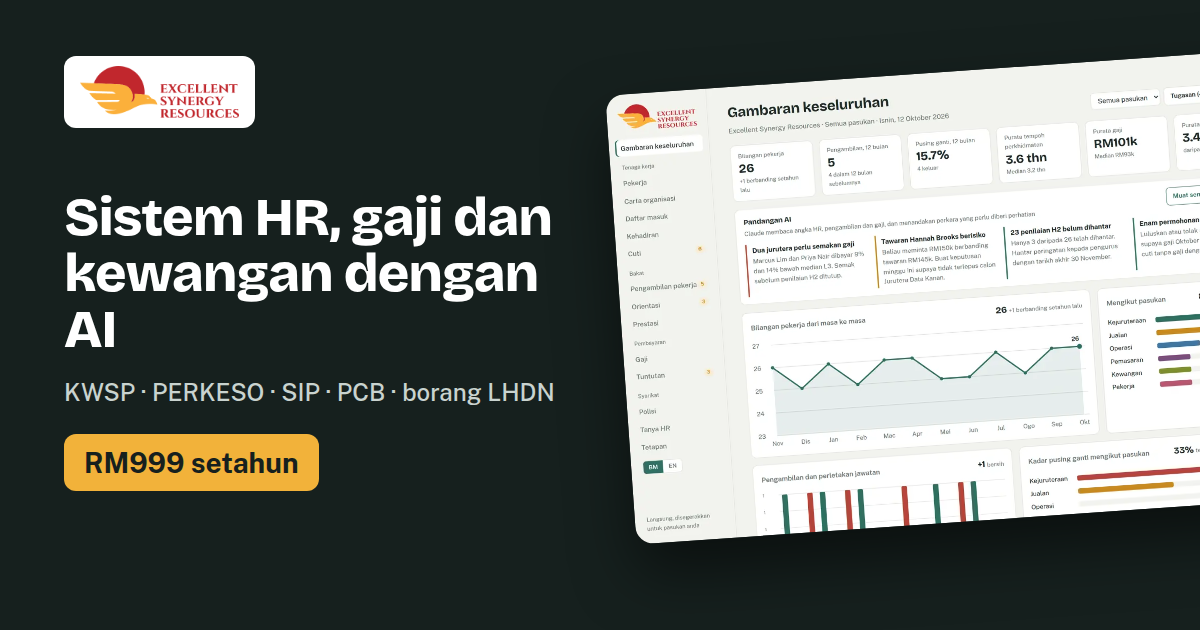
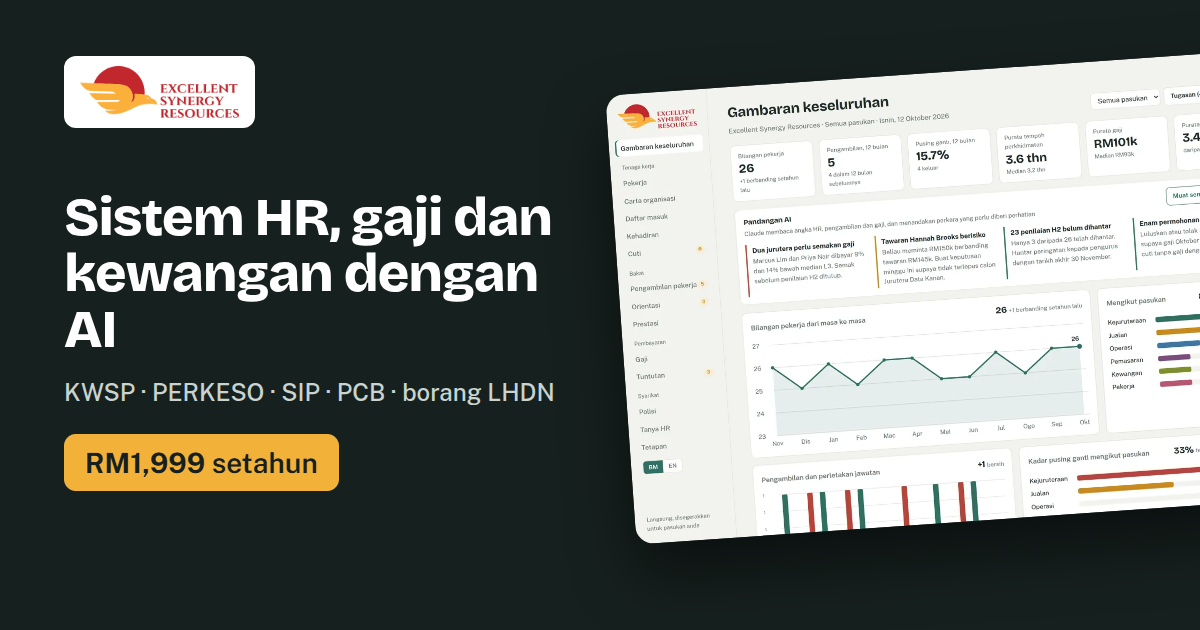
Change price to RM1,999 a year
Update hero note, pricing card, FAQ, meta/OG/Twitter descriptions and SoftwareApplication offer on both home pages, redraw the price label on the og-ms/og-en share images, and bump lastmod for / and /en/.

Changed region(s): [[0.0617, 0.6937, 0.3083, 0.7841]]

diff --git a/index.html b/index.html
@@ -4,21 +4,21 @@
 <meta charset="utf-8">
 <meta name="viewport" content="width=device-width, initial-scale=1, viewport-fit=cover">
 <title>Sistem HR dan Gaji Malaysia dengan AI | ESR</title>
-<meta name="description" content="Urus pekerja, cuti, daftar masuk berlokasi, gaji dengan KWSP, PERKESO, SIP dan PCB, invois dan borang LHDN dalam satu sistem dengan AI. RM999 setahun.">
+<meta name="description" content="Urus pekerja, cuti, daftar masuk berlokasi, gaji dengan KWSP, PERKESO, SIP dan PCB, invois dan borang LHDN dalam satu sistem dengan AI. RM1,999 setahun.">
 <meta name="robots" content="index, follow, max-image-preview:large">
 <link rel="canonical" href="https://hrmanagement.esrmy.com/">
 <link rel="alternate" hreflang="ms-MY" href="https://hrmanagement.esrmy.com/"><link rel="alternate" hreflang="en" href="https://hrmanagement.esrmy.com/en/"><link rel="alternate" hreflang="x-default" href="https://hrmanagement.esrmy.com/">
 <meta property="og:type" content="website"><meta property="og:site_name" content="Excellent Synergy Resources"><meta property="og:url" content="https://hrmanagement.esrmy.com/">
-<meta property="og:title" content="Sistem HR dan Gaji Malaysia dengan AI | ESR"><meta property="og:description" content="Urus pekerja, cuti, daftar masuk berlokasi, gaji dengan KWSP, PERKESO, SIP dan PCB, invois dan borang LHDN dalam satu sistem dengan AI. RM999 setahun.">
+<meta property="og:title" content="Sistem HR dan Gaji Malaysia dengan AI | ESR"><meta property="og:description" content="Urus pekerja, cuti, daftar masuk berlokasi, gaji dengan KWSP, PERKESO, SIP dan PCB, invois dan borang LHDN dalam satu sistem dengan AI. RM1,999 setahun.">
 <meta property="og:image" content="https://hrmanagement.esrmy.com/assets/img/og-ms.png"><meta property="og:image:width" content="1200"><meta property="og:image:height" content="630"><meta property="og:image:alt" content="Sistem HR, gaji dan kewangan Excellent Synergy Resources">
 <meta property="og:locale" content="ms_MY"><meta property="og:locale:alternate" content="en_MY">
-<meta name="twitter:card" content="summary_large_image"><meta name="twitter:title" content="Sistem HR dan Gaji Malaysia dengan AI | ESR"><meta name="twitter:description" content="Urus pekerja, cuti, daftar masuk berlokasi, gaji dengan KWSP, PERKESO, SIP dan PCB, invois dan borang LHDN dalam satu sistem dengan AI. RM999 setahun."><meta name="twitter:image" content="https://hrmanagement.esrmy.com/assets/img/og-ms.png">
+<meta name="twitter:card" content="summary_large_image"><meta name="twitter:title" content="Sistem HR dan Gaji Malaysia dengan AI | ESR"><meta name="twitter:description" content="Urus pekerja, cuti, daftar masuk berlokasi, gaji dengan KWSP, PERKESO, SIP dan PCB, invois dan borang LHDN dalam satu sistem dengan AI. RM1,999 setahun."><meta name="twitter:image" content="https://hrmanagement.esrmy.com/assets/img/og-ms.png">
 <meta name="theme-color" content="#2F6F62">
 <link rel="icon" type="image/png" sizes="32x32" href="/assets/img/icon-32.png"><link rel="icon" type="image/png" sizes="192x192" href="/assets/img/icon-192.png"><link rel="apple-touch-icon" href="/assets/img/apple-touch-icon.png">
 <link rel="preconnect" href="https://fonts.googleapis.com"><link rel="preconnect" href="https://fonts.gstatic.com" crossorigin>
 <link href="https://fonts.googleapis.com/css2?family=Bricolage+Grotesque:opsz,wght@12..96,600;12..96,800&family=Public+Sans:wght@400;500;600;700&display=swap" rel="stylesheet">
 <link rel="stylesheet" href="/assets/css/style.css">
-<script type="application/ld+json">{"@context": "https://schema.org", "@graph": [{"@type": "Organization", "@id": "https://hrmanagement.esrmy.com/#org", "name": "Excellent Synergy Resources", "url": "https://hrmanagement.esrmy.com/", "logo": "https://hrmanagement.esrmy.com/assets/img/logo.png", "email": "work@esrmy.com", "contactPoint": {"@type": "ContactPoint", "telephone": "+60-11-1632-0694", "contactType": "sales", "areaServed": ["MY", "SG"], "availableLanguage": ["ms", "en"]}}, {"@type": "WebSite", "@id": "https://hrmanagement.esrmy.com/#site", "url": "https://hrmanagement.esrmy.com/", "name": "Excellent Synergy Resources", "inLanguage": ["ms-MY", "en"], "publisher": {"@id": "https://hrmanagement.esrmy.com/#org"}}, {"@type": "SoftwareApplication", "name": "Excellent Synergy Resources HR, Payroll & Finance", "applicationCategory": "BusinessApplication", "operatingSystem": "Web", "inLanguage": ["ms", "en"], "description": "Urus pekerja, cuti, daftar masuk berlokasi, gaji dengan KWSP, PERKESO, SIP dan PCB, invois dan borang LHDN dalam satu sistem dengan AI. RM999 setahun.", "offers": {"@type": "Offer", "price": "999", "priceCurrency": "MYR", "priceSpecification": {"@type": "UnitPriceSpecification", "price": "999", "priceCurrency": "MYR", "unitText": "YEAR"}}, "publisher": {"@id": "https://hrmanagement.esrmy.com/#org"}}, {"@type": "FAQPage", "inLanguage": "ms", "mainEntity": [{"@type": "Question", "name": "Apa yang termasuk dalam RM999 setahun?", "acceptedAnswer": {"@type": "Answer", "text": "Rekod HR, kehadiran dengan daftar masuk berlokasi, cuti, pengambilan pekerja, orientasi, penilaian prestasi, gaji untuk Malaysia dan Singapura, kewangan dengan invois, penyesuaian bank dan laporan, borang LHDN, serta ciri-ciri AI."}}, {"@type": "Question", "name": "Adakah sistem ini mengira PCB, KWSP, PERKESO dan SIP?", "acceptedAnswer": {"@type": "Answer", "text": "Ya. Gaji bulanan mengira setiap potongan, menggunakan kaedah pengiraan berkomputer LHDN untuk PCB, dan menyediakan data CP39, borang EA dan senarai pekerja Borang E."}}, {"@type": "Question", "name": "Bolehkah kakitangan daftar masuk melalui telefon?", "acceptedAnswer": {"@type": "Answer", "text": "Boleh. Kakitangan menekan Daftar masuk di telefon, sistem menyemak mereka berada di pejabat, dan lewat atau tidak hadir ditanda secara automatik."}}, {"@type": "Question", "name": "Adakah sistem ini dalam Bahasa Malaysia?", "acceptedAnswer": {"@type": "Answer", "text": "Ya. Setiap skrin boleh ditukar antara Bahasa Malaysia dan Bahasa Inggeris."}}, {"@type": "Question", "name": "Bagaimana saya boleh melihat sistem ini?", "acceptedAnswer": {"@type": "Answer", "text": "Tempah demo melalui WhatsApp di 011-1632 0694 atau e-mel work@esrmy.com dan kami akan menunjukkannya kepada anda."}}]}]}</script>
+<script type="application/ld+json">{"@context": "https://schema.org", "@graph": [{"@type": "Organization", "@id": "https://hrmanagement.esrmy.com/#org", "name": "Excellent Synergy Resources", "url": "https://hrmanagement.esrmy.com/", "logo": "https://hrmanagement.esrmy.com/assets/img/logo.png", "email": "work@esrmy.com", "contactPoint": {"@type": "ContactPoint", "telephone": "+60-11-1632-0694", "contactType": "sales", "areaServed": ["MY", "SG"], "availableLanguage": ["ms", "en"]}}, {"@type": "WebSite", "@id": "https://hrmanagement.esrmy.com/#site", "url": "https://hrmanagement.esrmy.com/", "name": "Excellent Synergy Resources", "inLanguage": ["ms-MY", "en"], "publisher": {"@id": "https://hrmanagement.esrmy.com/#org"}}, {"@type": "SoftwareApplication", "name": "Excellent Synergy Resources HR, Payroll & Finance", "applicationCategory": "BusinessApplication", "operatingSystem": "Web", "inLanguage": ["ms", "en"], "description": "Urus pekerja, cuti, daftar masuk berlokasi, gaji dengan KWSP, PERKESO, SIP dan PCB, invois dan borang LHDN dalam satu sistem dengan AI. RM1,999 setahun.", "offers": {"@type": "Offer", "price": "1999", "priceCurrency": "MYR", "priceSpecification": {"@type": "UnitPriceSpecification", "price": "1999", "priceCurrency": "MYR", "unitText": "YEAR"}}, "publisher": {"@id": "https://hrmanagement.esrmy.com/#org"}}, {"@type": "FAQPage", "inLanguage": "ms", "mainEntity": [{"@type": "Question", "name": "Apa yang termasuk dalam RM1,999 setahun?", "acceptedAnswer": {"@type": "Answer", "text": "Rekod HR, kehadiran dengan daftar masuk berlokasi, cuti, pengambilan pekerja, orientasi, penilaian prestasi, gaji untuk Malaysia dan Singapura, kewangan dengan invois, penyesuaian bank dan laporan, borang LHDN, serta ciri-ciri AI."}}, {"@type": "Question", "name": "Adakah sistem ini mengira PCB, KWSP, PERKESO dan SIP?", "acceptedAnswer": {"@type": "Answer", "text": "Ya. Gaji bulanan mengira setiap potongan, menggunakan kaedah pengiraan berkomputer LHDN untuk PCB, dan menyediakan data CP39, borang EA dan senarai pekerja Borang E."}}, {"@type": "Question", "name": "Bolehkah kakitangan daftar masuk melalui telefon?", "acceptedAnswer": {"@type": "Answer", "text": "Boleh. Kakitangan menekan Daftar masuk di telefon, sistem menyemak mereka berada di pejabat, dan lewat atau tidak hadir ditanda secara automatik."}}, {"@type": "Question", "name": "Adakah sistem ini dalam Bahasa Malaysia?", "acceptedAnswer": {"@type": "Answer", "text": "Ya. Setiap skrin boleh ditukar antara Bahasa Malaysia dan Bahasa Inggeris."}}, {"@type": "Question", "name": "Bagaimana saya boleh melihat sistem ini?", "acceptedAnswer": {"@type": "Answer", "text": "Tempah demo melalui WhatsApp di 011-1632 0694 atau e-mel work@esrmy.com dan kami akan menunjukkannya kepada anda."}}]}]}</script>
 </head>
 <body><header class="top"><div class="wrap">
   <a class="logo-tile" href="/"><img src="/assets/img/logo.png" width="422" height="138" alt="Excellent Synergy Resources" style="height:38px;width:auto"></a>
@@ -29,7 +29,7 @@
 <main>
 <section class="hero"><div class="wrap grid"><div>
 <p class="kicker">HR · Gaji · Kewangan · LHDN</p><h1>Urus HR, gaji dan kewangan dalam <em>satu sistem</em>, dengan AI terbina dalam.</h1><p class="lead">Rekod pekerja, daftar masuk, cuti, pengambilan pekerja, gaji dengan KWSP, PERKESO, SIP dan PCB, invois, penyesuaian bank dan borang LHDN, semuanya di satu tempat. AI membaca CV, menyemak gaji dan menjawab soalan anda.</p>
-<div class="ctas"><a class="btn primary" href="https://wa.me/601116320694?text=Hai%2C%20saya%20ingin%20menempah%20demo%20sistem%20HR%2C%20gaji%20dan%20kewangan." target="_blank" rel="noopener">Tempah demo di WhatsApp</a><a class="btn" href="/kalkulator-pcb/">Cuba kalkulator PCB percuma</a></div><p class="note">Dibina untuk PKS di Malaysia dan Singapura · RM999 setahun</p></div>
+<div class="ctas"><a class="btn primary" href="https://wa.me/601116320694?text=Hai%2C%20saya%20ingin%20menempah%20demo%20sistem%20HR%2C%20gaji%20dan%20kewangan." target="_blank" rel="noopener">Tempah demo di WhatsApp</a><a class="btn" href="/kalkulator-pcb/">Cuba kalkulator PCB percuma</a></div><p class="note">Dibina untuk PKS di Malaysia dan Singapura · RM1,999 setahun</p></div>
 <div class="stack"><div class="shot"><picture><source media="(prefers-color-scheme: dark)" srcset="/assets/img/ms/hr-dashboard-dark.webp"><img src="/assets/img/ms/hr-dashboard-light.webp" width="1400" height="875" alt="Papan pemuka HR dengan bilangan pekerja, pusing ganti dan pandangan AI" fetchpriority="high"></picture></div><div class="shot back"><picture><source media="(prefers-color-scheme: dark)" srcset="/assets/img/ms/clock-in-dark.webp"><img src="/assets/img/ms/clock-in-light.webp" width="1400" height="875" alt="Skrin daftar masuk kakitangan dengan lokasi" loading="lazy" decoding="async"></picture></div></div></div></section>
 <section id="features"><div class="wrap"><p class="kicker">Apa yang ada</p><h2>Semua kerja pejabat belakang anda, di satu tempat</h2><div class="rows"><div class="row"><div class="text"><span class="tag"><i></i><span>HR</span></span><h3>Seluruh pasukan anda sepintas lalu</h3><p>Papan pemuka langsung menunjukkan bilangan pekerja, pusing ganti, julat gaji dan siapa yang perlu diberi perhatian.</p><ul><li>Profil pekerja, carta organisasi dan import CSV</li><li>Permohonan cuti, baki dan kalendar pasukan</li><li>Papan pengambilan dengan halaman kerjaya awam</li><li>Matlamat, kitaran penilaian, senarai semak orientasi dan keluar</li></ul></div>
 <div class="shot"><picture><source media="(prefers-color-scheme: dark)" srcset="/assets/img/ms/hr-dashboard-dark.webp"><img src="/assets/img/ms/hr-dashboard-light.webp" width="1400" height="875" alt="Papan pemuka HR dengan bilangan pekerja, pusing ganti dan pandangan AI" loading="lazy" decoding="async"></picture></div></div><div class="row flip"><div class="text"><span class="tag"><i></i><span>Kehadiran</span></span><h3>Daftar masuk dengan lokasi</h3><p>Kakitangan menekan Daftar masuk di telefon. Sistem menyemak mereka berada di pejabat, dan menandakan lewat serta tidak hadir secara automatik.</p><ul><li>Di pejabat atau jarak jauh, dengan jarak dari pejabat</li><li>Cuti yang diluluskan diisi secara automatik</li><li>Lokasi hanya dibaca ketika daftar masuk</li></ul></div>
@@ -41,10 +41,10 @@
 <section id="tools"><div class="wrap"><p class="kicker">Alat percuma</p><h2>Alat percuma untuk majikan di Malaysia</h2><div class="tools">
 <a class="toolcard" href="/kalkulator-pcb/"><h3>Kalkulator PCB</h3><span>Anggarkan PCB, KWSP, PERKESO dan SIP untuk sebarang gaji dalam beberapa saat.</span><b>Buka →</b></a>
 <a class="toolcard" href="/panduan-borang-ea/"><h3>Panduan borang EA</h3><span>Lima langkah, tarikh penting dan kesilapan biasa untuk borang EA dan Borang E.</span><b>Buka →</b></a></div></div></section>
-<section id="pricing"><div class="wrap"><p class="kicker">Harga</p><h2>Satu harga yang mudah</h2><div class="price"><div class="pcard"><div class="amt">RM999<small>setahun</small></div>
+<section id="pricing"><div class="wrap"><p class="kicker">Harga</p><h2>Satu harga yang mudah</h2><div class="price"><div class="pcard"><div class="amt">RM1,999<small>setahun</small></div>
 <ul><li>HR: pekerja, kehadiran, cuti, pengambilan, orientasi dan prestasi</li><li>Gaji untuk Malaysia (KWSP, PERKESO, SIP, PCB) dan Singapura (CPF)</li><li>Kewangan: invois, bil, penyesuaian bank, laporan dan GST</li><li>LHDN: borang EA, Borang E dan penjejakan CP204</li><li>Ciri AI serta Tanya HR dan Tanya Kewangan</li></ul><a class="btn primary" href="https://wa.me/601116320694?text=Hai%2C%20saya%20ingin%20menempah%20demo%20sistem%20HR%2C%20gaji%20dan%20kewangan." target="_blank" rel="noopener">Tempah demo di WhatsApp</a></div>
 <div><h3 style="font-size:1.6rem">Hubungi kami</h3><p class="lead" style="margin:10px 0 22px">Tempah demo dan kami akan menunjukkan sistem ini berdasarkan soalan anda sendiri.</p><div class="contact"><a href="tel:+601116320694">011-1632 0694</a><a href="mailto:work@esrmy.com">work@esrmy.com</a></div></div></div></div></section>
-<section id="faq"><div class="wrap"><p class="kicker">Soalan lazim</p><h2>Soalan yang sering ditanya</h2><div class="faq"><details><summary>Apa yang termasuk dalam RM999 setahun?</summary><p>Rekod HR, kehadiran dengan daftar masuk berlokasi, cuti, pengambilan pekerja, orientasi, penilaian prestasi, gaji untuk Malaysia dan Singapura, kewangan dengan invois, penyesuaian bank dan laporan, borang LHDN, serta ciri-ciri AI.</p></details><details><summary>Adakah sistem ini mengira PCB, KWSP, PERKESO dan SIP?</summary><p>Ya. Gaji bulanan mengira setiap potongan, menggunakan kaedah pengiraan berkomputer LHDN untuk PCB, dan menyediakan data CP39, borang EA dan senarai pekerja Borang E.</p></details><details><summary>Bolehkah kakitangan daftar masuk melalui telefon?</summary><p>Boleh. Kakitangan menekan Daftar masuk di telefon, sistem menyemak mereka berada di pejabat, dan lewat atau tidak hadir ditanda secara automatik.</p></details><details><summary>Adakah sistem ini dalam Bahasa Malaysia?</summary><p>Ya. Setiap skrin boleh ditukar antara Bahasa Malaysia dan Bahasa Inggeris.</p></details><details><summary>Bagaimana saya boleh melihat sistem ini?</summary><p>Tempah demo melalui WhatsApp di 011-1632 0694 atau e-mel work@esrmy.com dan kami akan menunjukkannya kepada anda.</p></details></div></div></section>
+<section id="faq"><div class="wrap"><p class="kicker">Soalan lazim</p><h2>Soalan yang sering ditanya</h2><div class="faq"><details><summary>Apa yang termasuk dalam RM1,999 setahun?</summary><p>Rekod HR, kehadiran dengan daftar masuk berlokasi, cuti, pengambilan pekerja, orientasi, penilaian prestasi, gaji untuk Malaysia dan Singapura, kewangan dengan invois, penyesuaian bank dan laporan, borang LHDN, serta ciri-ciri AI.</p></details><details><summary>Adakah sistem ini mengira PCB, KWSP, PERKESO dan SIP?</summary><p>Ya. Gaji bulanan mengira setiap potongan, menggunakan kaedah pengiraan berkomputer LHDN untuk PCB, dan menyediakan data CP39, borang EA dan senarai pekerja Borang E.</p></details><details><summary>Bolehkah kakitangan daftar masuk melalui telefon?</summary><p>Boleh. Kakitangan menekan Daftar masuk di telefon, sistem menyemak mereka berada di pejabat, dan lewat atau tidak hadir ditanda secara automatik.</p></details><details><summary>Adakah sistem ini dalam Bahasa Malaysia?</summary><p>Ya. Setiap skrin boleh ditukar antara Bahasa Malaysia dan Bahasa Inggeris.</p></details><details><summary>Bagaimana saya boleh melihat sistem ini?</summary><p>Tempah demo melalui WhatsApp di 011-1632 0694 atau e-mel work@esrmy.com dan kami akan menunjukkannya kepada anda.</p></details></div></div></section>
 </main>
 <footer><div class="wrap"><span>© 2026 Excellent Synergy Resources · <a href="tel:+601116320694">011-1632 0694</a> · <a href="mailto:work@esrmy.com">work@esrmy.com</a></span>
 <nav aria-label="Footer"><a href="/">Utama</a><a href="/kalkulator-pcb/">Kalkulator PCB</a><a href="/panduan-borang-ea/">Panduan borang EA</a></nav>

diff --git a/en/index.html b/en/index.html
@@ -4,21 +4,21 @@
 <meta charset="utf-8">
 <meta name="viewport" content="width=device-width, initial-scale=1, viewport-fit=cover">
 <title>HR &amp; Payroll Software for Malaysia with AI | ESR</title>
-<meta name="description" content="Manage staff, leave, location clock-in, payroll with EPF, SOCSO, EIS and PCB, invoices and LHDN forms in one system with AI. RM999 a year.">
+<meta name="description" content="Manage staff, leave, location clock-in, payroll with EPF, SOCSO, EIS and PCB, invoices and LHDN forms in one system with AI. RM1,999 a year.">
 <meta name="robots" content="index, follow, max-image-preview:large">
 <link rel="canonical" href="https://hrmanagement.esrmy.com/en/">
 <link rel="alternate" hreflang="ms-MY" href="https://hrmanagement.esrmy.com/"><link rel="alternate" hreflang="en" href="https://hrmanagement.esrmy.com/en/"><link rel="alternate" hreflang="x-default" href="https://hrmanagement.esrmy.com/">
 <meta property="og:type" content="website"><meta property="og:site_name" content="Excellent Synergy Resources"><meta property="og:url" content="https://hrmanagement.esrmy.com/en/">
-<meta property="og:title" content="HR &amp; Payroll Software for Malaysia with AI | ESR"><meta property="og:description" content="Manage staff, leave, location clock-in, payroll with EPF, SOCSO, EIS and PCB, invoices and LHDN forms in one system with AI. RM999 a year.">
+<meta property="og:title" content="HR &amp; Payroll Software for Malaysia with AI | ESR"><meta property="og:description" content="Manage staff, leave, location clock-in, payroll with EPF, SOCSO, EIS and PCB, invoices and LHDN forms in one system with AI. RM1,999 a year.">
 <meta property="og:image" content="https://hrmanagement.esrmy.com/assets/img/og-en.png"><meta property="og:image:width" content="1200"><meta property="og:image:height" content="630"><meta property="og:image:alt" content="Excellent Synergy Resources HR, payroll and finance system">
 <meta property="og:locale" content="en_MY"><meta property="og:locale:alternate" content="ms_MY">
-<meta name="twitter:card" content="summary_large_image"><meta name="twitter:title" content="HR &amp; Payroll Software for Malaysia with AI | ESR"><meta name="twitter:description" content="Manage staff, leave, location clock-in, payroll with EPF, SOCSO, EIS and PCB, invoices and LHDN forms in one system with AI. RM999 a year."><meta name="twitter:image" content="https://hrmanagement.esrmy.com/assets/img/og-en.png">
+<meta name="twitter:card" content="summary_large_image"><meta name="twitter:title" content="HR &amp; Payroll Software for Malaysia with AI | ESR"><meta name="twitter:description" content="Manage staff, leave, location clock-in, payroll with EPF, SOCSO, EIS and PCB, invoices and LHDN forms in one system with AI. RM1,999 a year."><meta name="twitter:image" content="https://hrmanagement.esrmy.com/assets/img/og-en.png">
 <meta name="theme-color" content="#2F6F62">
 <link rel="icon" type="image/png" sizes="32x32" href="/assets/img/icon-32.png"><link rel="icon" type="image/png" sizes="192x192" href="/assets/img/icon-192.png"><link rel="apple-touch-icon" href="/assets/img/apple-touch-icon.png">
 <link rel="preconnect" href="https://fonts.googleapis.com"><link rel="preconnect" href="https://fonts.gstatic.com" crossorigin>
 <link href="https://fonts.googleapis.com/css2?family=Bricolage+Grotesque:opsz,wght@12..96,600;12..96,800&family=Public+Sans:wght@400;500;600;700&display=swap" rel="stylesheet">
 <link rel="stylesheet" href="/assets/css/style.css">
-<script type="application/ld+json">{"@context": "https://schema.org", "@graph": [{"@type": "Organization", "@id": "https://hrmanagement.esrmy.com/#org", "name": "Excellent Synergy Resources", "url": "https://hrmanagement.esrmy.com/", "logo": "https://hrmanagement.esrmy.com/assets/img/logo.png", "email": "work@esrmy.com", "contactPoint": {"@type": "ContactPoint", "telephone": "+60-11-1632-0694", "contactType": "sales", "areaServed": ["MY", "SG"], "availableLanguage": ["ms", "en"]}}, {"@type": "WebSite", "@id": "https://hrmanagement.esrmy.com/#site", "url": "https://hrmanagement.esrmy.com/", "name": "Excellent Synergy Resources", "inLanguage": ["ms-MY", "en"], "publisher": {"@id": "https://hrmanagement.esrmy.com/#org"}}, {"@type": "SoftwareApplication", "name": "Excellent Synergy Resources HR, Payroll & Finance", "applicationCategory": "BusinessApplication", "operatingSystem": "Web", "inLanguage": ["ms", "en"], "description": "Manage staff, leave, location clock-in, payroll with EPF, SOCSO, EIS and PCB, invoices and LHDN forms in one system with AI. RM999 a year.", "offers": {"@type": "Offer", "price": "999", "priceCurrency": "MYR", "priceSpecification": {"@type": "UnitPriceSpecification", "price": "999", "priceCurrency": "MYR", "unitText": "YEAR"}}, "publisher": {"@id": "https://hrmanagement.esrmy.com/#org"}}, {"@type": "FAQPage", "inLanguage": "en", "mainEntity": [{"@type": "Question", "name": "What does RM999 a year include?", "acceptedAnswer": {"@type": "Answer", "text": "HR records, attendance with location clock-in, leave, recruitment, onboarding, performance reviews, payroll for Malaysia and Singapore, finance with invoices, bank reconciliation and reports, LHDN forms, and the AI features."}}, {"@type": "Question", "name": "Does it calculate PCB, EPF, SOCSO and EIS?", "acceptedAnswer": {"@type": "Answer", "text": "Yes. Monthly payroll works out each deduction, using LHDN's computerised method for PCB, and prepares CP39 data, EA forms and the Form E employee list."}}, {"@type": "Question", "name": "Can staff clock in from their phone?", "acceptedAnswer": {"@type": "Answer", "text": "Yes. Staff tap Clock in on their phone, the system checks they're at the office, and late or absent is marked automatically."}}, {"@type": "Question", "name": "Is it available in Bahasa Malaysia?", "acceptedAnswer": {"@type": "Answer", "text": "Yes. Every screen switches between Bahasa Malaysia and English."}}, {"@type": "Question", "name": "How do I see it in action?", "acceptedAnswer": {"@type": "Answer", "text": "Book a demo on WhatsApp at 011-1632 0694 or email work@esrmy.com and we'll walk you through it."}}]}]}</script>
+<script type="application/ld+json">{"@context": "https://schema.org", "@graph": [{"@type": "Organization", "@id": "https://hrmanagement.esrmy.com/#org", "name": "Excellent Synergy Resources", "url": "https://hrmanagement.esrmy.com/", "logo": "https://hrmanagement.esrmy.com/assets/img/logo.png", "email": "work@esrmy.com", "contactPoint": {"@type": "ContactPoint", "telephone": "+60-11-1632-0694", "contactType": "sales", "areaServed": ["MY", "SG"], "availableLanguage": ["ms", "en"]}}, {"@type": "WebSite", "@id": "https://hrmanagement.esrmy.com/#site", "url": "https://hrmanagement.esrmy.com/", "name": "Excellent Synergy Resources", "inLanguage": ["ms-MY", "en"], "publisher": {"@id": "https://hrmanagement.esrmy.com/#org"}}, {"@type": "SoftwareApplication", "name": "Excellent Synergy Resources HR, Payroll & Finance", "applicationCategory": "BusinessApplication", "operatingSystem": "Web", "inLanguage": ["ms", "en"], "description": "Manage staff, leave, location clock-in, payroll with EPF, SOCSO, EIS and PCB, invoices and LHDN forms in one system with AI. RM1,999 a year.", "offers": {"@type": "Offer", "price": "1999", "priceCurrency": "MYR", "priceSpecification": {"@type": "UnitPriceSpecification", "price": "1999", "priceCurrency": "MYR", "unitText": "YEAR"}}, "publisher": {"@id": "https://hrmanagement.esrmy.com/#org"}}, {"@type": "FAQPage", "inLanguage": "en", "mainEntity": [{"@type": "Question", "name": "What does RM1,999 a year include?", "acceptedAnswer": {"@type": "Answer", "text": "HR records, attendance with location clock-in, leave, recruitment, onboarding, performance reviews, payroll for Malaysia and Singapore, finance with invoices, bank reconciliation and reports, LHDN forms, and the AI features."}}, {"@type": "Question", "name": "Does it calculate PCB, EPF, SOCSO and EIS?", "acceptedAnswer": {"@type": "Answer", "text": "Yes. Monthly payroll works out each deduction, using LHDN's computerised method for PCB, and prepares CP39 data, EA forms and the Form E employee list."}}, {"@type": "Question", "name": "Can staff clock in from their phone?", "acceptedAnswer": {"@type": "Answer", "text": "Yes. Staff tap Clock in on their phone, the system checks they're at the office, and late or absent is marked automatically."}}, {"@type": "Question", "name": "Is it available in Bahasa Malaysia?", "acceptedAnswer": {"@type": "Answer", "text": "Yes. Every screen switches between Bahasa Malaysia and English."}}, {"@type": "Question", "name": "How do I see it in action?", "acceptedAnswer": {"@type": "Answer", "text": "Book a demo on WhatsApp at 011-1632 0694 or email work@esrmy.com and we'll walk you through it."}}]}]}</script>
 </head>
 <body><header class="top"><div class="wrap">
   <a class="logo-tile" href="/en/"><img src="/assets/img/logo.png" width="422" height="138" alt="Excellent Synergy Resources" style="height:38px;width:auto"></a>
@@ -29,7 +29,7 @@
 <main>
 <section class="hero"><div class="wrap grid"><div>
 <p class="kicker">HR · Payroll · Finance · LHDN</p><h1>Run HR, payroll and finance in <em>one system</em>, with AI built in.</h1><p class="lead">People records, clock-in, leave, hiring, payroll with EPF, SOCSO, EIS and PCB, invoices, bank reconciliation and LHDN forms, all in one place. AI reads CVs, checks payroll and answers your questions.</p>
-<div class="ctas"><a class="btn primary" href="https://wa.me/601116320694?text=Hi%2C%20I%27d%20like%20to%20book%20a%20demo%20of%20the%20HR%2C%20payroll%20and%20finance%20system." target="_blank" rel="noopener">Book a demo on WhatsApp</a><a class="btn" href="/en/pcb-calculator/">Try the free PCB calculator</a></div><p class="note">Built for SMEs in Malaysia and Singapore · RM999 a year</p></div>
+<div class="ctas"><a class="btn primary" href="https://wa.me/601116320694?text=Hi%2C%20I%27d%20like%20to%20book%20a%20demo%20of%20the%20HR%2C%20payroll%20and%20finance%20system." target="_blank" rel="noopener">Book a demo on WhatsApp</a><a class="btn" href="/en/pcb-calculator/">Try the free PCB calculator</a></div><p class="note">Built for SMEs in Malaysia and Singapore · RM1,999 a year</p></div>
 <div class="stack"><div class="shot"><picture><source media="(prefers-color-scheme: dark)" srcset="/assets/img/en/hr-dashboard-dark.webp"><img src="/assets/img/en/hr-dashboard-light.webp" width="1400" height="875" alt="HR dashboard with headcount, turnover and AI insights" fetchpriority="high"></picture></div><div class="shot back"><picture><source media="(prefers-color-scheme: dark)" srcset="/assets/img/en/clock-in-dark.webp"><img src="/assets/img/en/clock-in-light.webp" width="1400" height="875" alt="Staff clock-in screen with location" loading="lazy" decoding="async"></picture></div></div></div></section>
 <section id="features"><div class="wrap"><p class="kicker">What&#x27;s inside</p><h2>Everything your back office does, in one place</h2><div class="rows"><div class="row"><div class="text"><span class="tag"><i></i><span>HR</span></span><h3>Your whole team at a glance</h3><p>A live dashboard shows headcount, turnover, salary bands and who needs attention.</p><ul><li>Employee profiles, org chart and CSV import</li><li>Leave requests, balances and a team calendar</li><li>Recruitment board with a public careers page</li><li>Goals, review cycles, onboarding and offboarding checklists</li></ul></div>
 <div class="shot"><picture><source media="(prefers-color-scheme: dark)" srcset="/assets/img/en/hr-dashboard-dark.webp"><img src="/assets/img/en/hr-dashboard-light.webp" width="1400" height="875" alt="HR dashboard with headcount, turnover and AI insights" loading="lazy" decoding="async"></picture></div></div><div class="row flip"><div class="text"><span class="tag"><i></i><span>Attendance</span></span><h3>Clock in with location</h3><p>Staff tap Clock in on their phone. The system checks they&#x27;re at the office, and marks late and absent automatically.</p><ul><li>Office or remote, with distance from the office</li><li>Approved leave is filled in for you</li><li>Location is read only at the moment of clocking in</li></ul></div>
@@ -41,10 +41,10 @@
 <section id="tools"><div class="wrap"><p class="kicker">Free tools</p><h2>Free tools for Malaysian employers</h2><div class="tools">
 <a class="toolcard" href="/en/pcb-calculator/"><h3>PCB calculator</h3><span>Estimate PCB, EPF, SOCSO and EIS for any salary in seconds.</span><b>Open →</b></a>
 <a class="toolcard" href="/en/ea-form-guide/"><h3>EA form guide</h3><span>Five steps, key dates and common mistakes for EA forms and Form E.</span><b>Open →</b></a></div></div></section>
-<section id="pricing"><div class="wrap"><p class="kicker">Pricing</p><h2>One simple price</h2><div class="price"><div class="pcard"><div class="amt">RM999<small>per year</small></div>
+<section id="pricing"><div class="wrap"><p class="kicker">Pricing</p><h2>One simple price</h2><div class="price"><div class="pcard"><div class="amt">RM1,999<small>per year</small></div>
 <ul><li>HR: people, attendance, leave, hiring, onboarding and performance</li><li>Payroll for Malaysia (EPF, SOCSO, EIS, PCB) and Singapore (CPF)</li><li>Finance: invoices, bills, bank reconciliation, reports and GST</li><li>LHDN: EA forms, Form E and CP204 tracking</li><li>AI features plus Ask HR and Ask Finance</li></ul><a class="btn primary" href="https://wa.me/601116320694?text=Hi%2C%20I%27d%20like%20to%20book%20a%20demo%20of%20the%20HR%2C%20payroll%20and%20finance%20system." target="_blank" rel="noopener">Book a demo on WhatsApp</a></div>
 <div><h3 style="font-size:1.6rem">Talk to us</h3><p class="lead" style="margin:10px 0 22px">Book a demo and we&#x27;ll walk you through the system with your own questions.</p><div class="contact"><a href="tel:+601116320694">011-1632 0694</a><a href="mailto:work@esrmy.com">work@esrmy.com</a></div></div></div></div></section>
-<section id="faq"><div class="wrap"><p class="kicker">FAQ</p><h2>Common questions</h2><div class="faq"><details><summary>What does RM999 a year include?</summary><p>HR records, attendance with location clock-in, leave, recruitment, onboarding, performance reviews, payroll for Malaysia and Singapore, finance with invoices, bank reconciliation and reports, LHDN forms, and the AI features.</p></details><details><summary>Does it calculate PCB, EPF, SOCSO and EIS?</summary><p>Yes. Monthly payroll works out each deduction, using LHDN&#x27;s computerised method for PCB, and prepares CP39 data, EA forms and the Form E employee list.</p></details><details><summary>Can staff clock in from their phone?</summary><p>Yes. Staff tap Clock in on their phone, the system checks they&#x27;re at the office, and late or absent is marked automatically.</p></details><details><summary>Is it available in Bahasa Malaysia?</summary><p>Yes. Every screen switches between Bahasa Malaysia and English.</p></details><details><summary>How do I see it in action?</summary><p>Book a demo on WhatsApp at 011-1632 0694 or email work@esrmy.com and we&#x27;ll walk you through it.</p></details></div></div></section>
+<section id="faq"><div class="wrap"><p class="kicker">FAQ</p><h2>Common questions</h2><div class="faq"><details><summary>What does RM1,999 a year include?</summary><p>HR records, attendance with location clock-in, leave, recruitment, onboarding, performance reviews, payroll for Malaysia and Singapore, finance with invoices, bank reconciliation and reports, LHDN forms, and the AI features.</p></details><details><summary>Does it calculate PCB, EPF, SOCSO and EIS?</summary><p>Yes. Monthly payroll works out each deduction, using LHDN&#x27;s computerised method for PCB, and prepares CP39 data, EA forms and the Form E employee list.</p></details><details><summary>Can staff clock in from their phone?</summary><p>Yes. Staff tap Clock in on their phone, the system checks they&#x27;re at the office, and late or absent is marked automatically.</p></details><details><summary>Is it available in Bahasa Malaysia?</summary><p>Yes. Every screen switches between Bahasa Malaysia and English.</p></details><details><summary>How do I see it in action?</summary><p>Book a demo on WhatsApp at 011-1632 0694 or email work@esrmy.com and we&#x27;ll walk you through it.</p></details></div></div></section>
 </main>
 <footer><div class="wrap"><span>© 2026 Excellent Synergy Resources · <a href="tel:+601116320694">011-1632 0694</a> · <a href="mailto:work@esrmy.com">work@esrmy.com</a></span>
 <nav aria-label="Footer"><a href="/en/">Home</a><a href="/en/pcb-calculator/">PCB calculator</a><a href="/en/ea-form-guide/">EA form guide</a></nav>

diff --git a/CLAUDE.md b/CLAUDE.md
@@ -6,7 +6,7 @@ Plesk (Git extension, automatic deployment via GitHub webhook) deploys every pus
 subdomain's web root, so **everything in this repo is public**. Never commit secrets, customer data or drafts.
 
 ## What the business sells
-An HR, payroll and finance system for SMEs in Malaysia and Singapore, with AI built in. Price: **RM999 a year**.
+An HR, payroll and finance system for SMEs in Malaysia and Singapore, with AI built in. Price: **RM1,999 a year**.
 Contact: WhatsApp/phone **011-1632 0694** (wa.me/601116320694), email **work@esrmy.com**.
 Features to promote (keep claims factual; don't invent security certifications, customer counts or free trials):
 - HR: employee profiles, org chart, CSV import, leave with balances and team calendar, recruitment board with a
